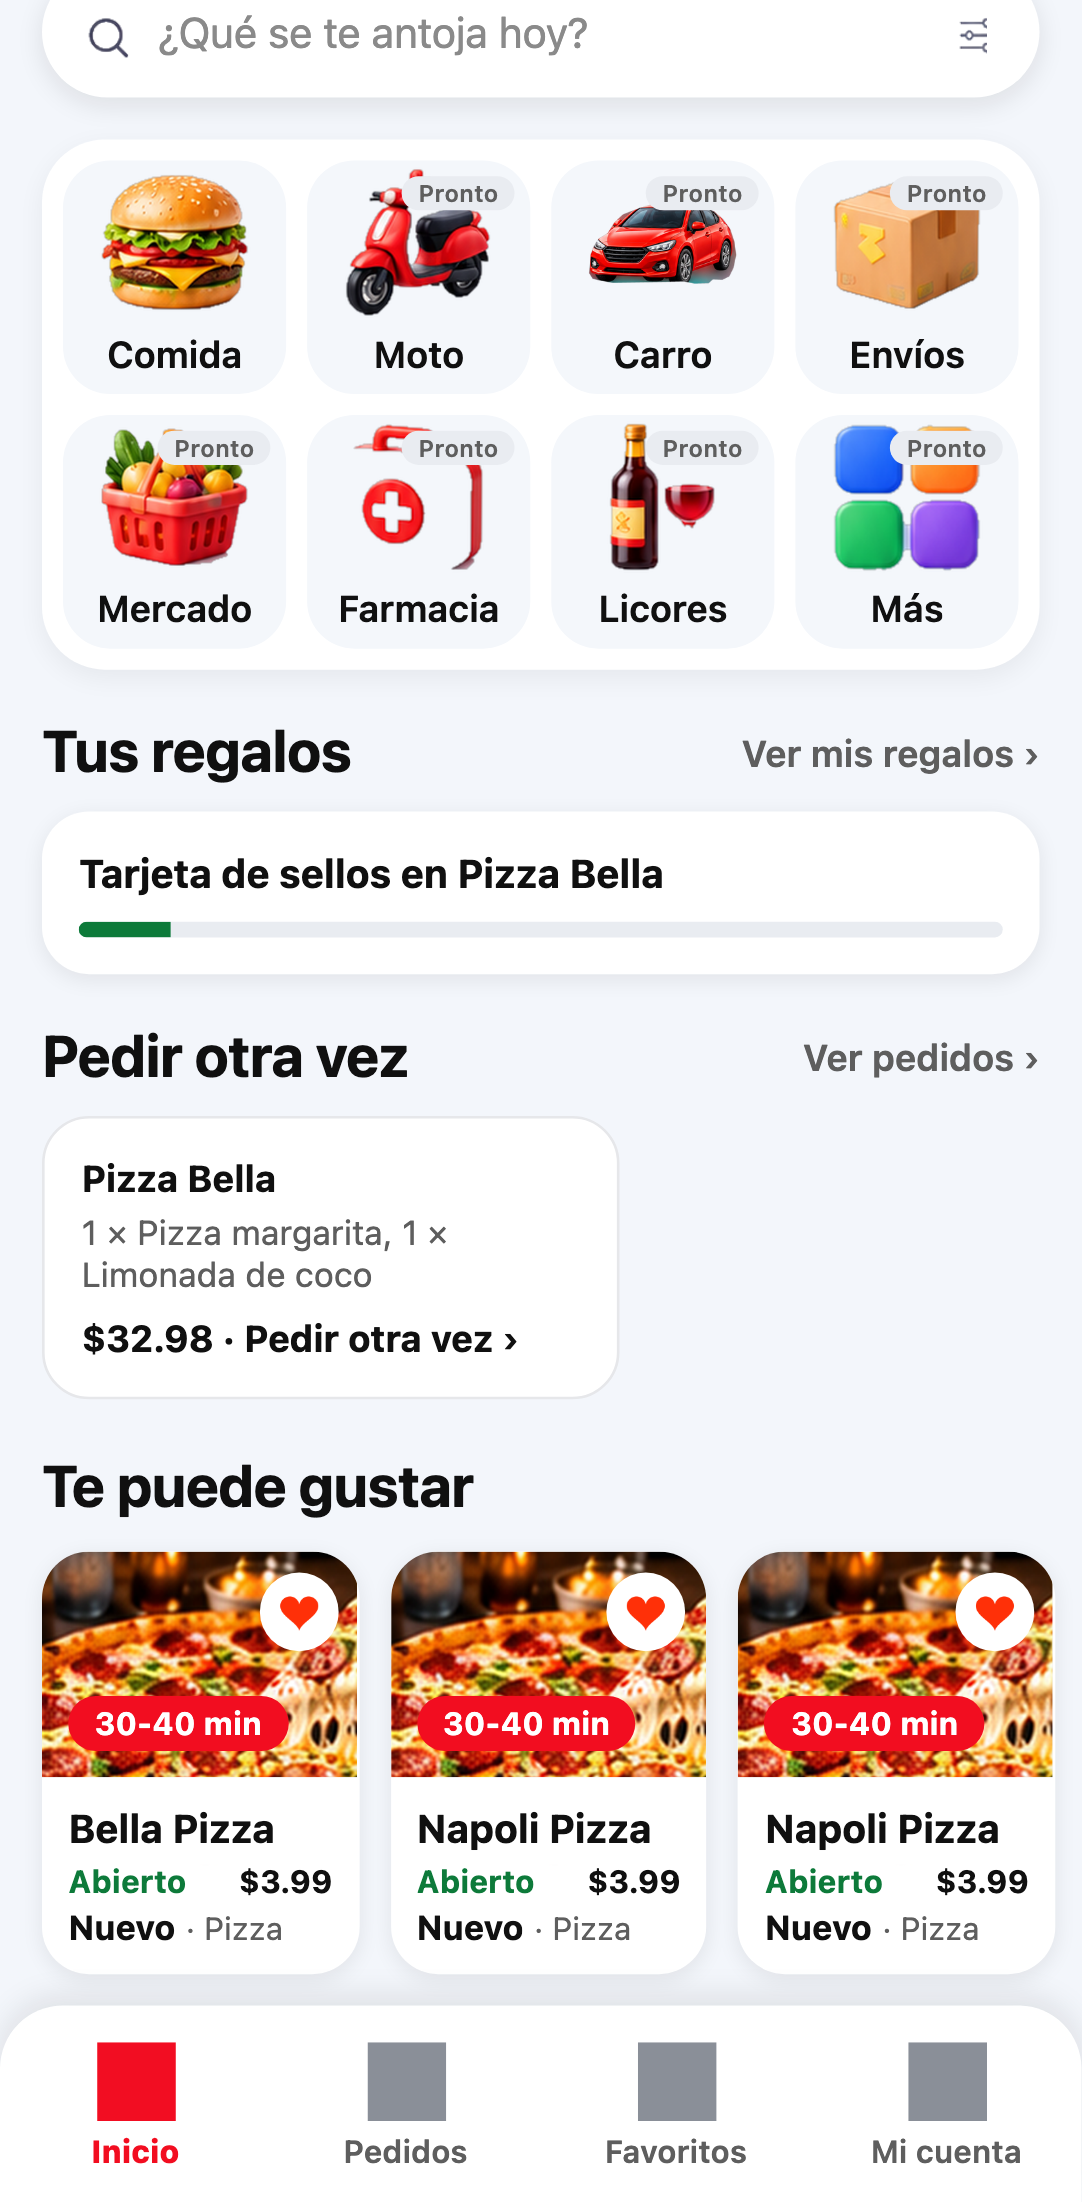
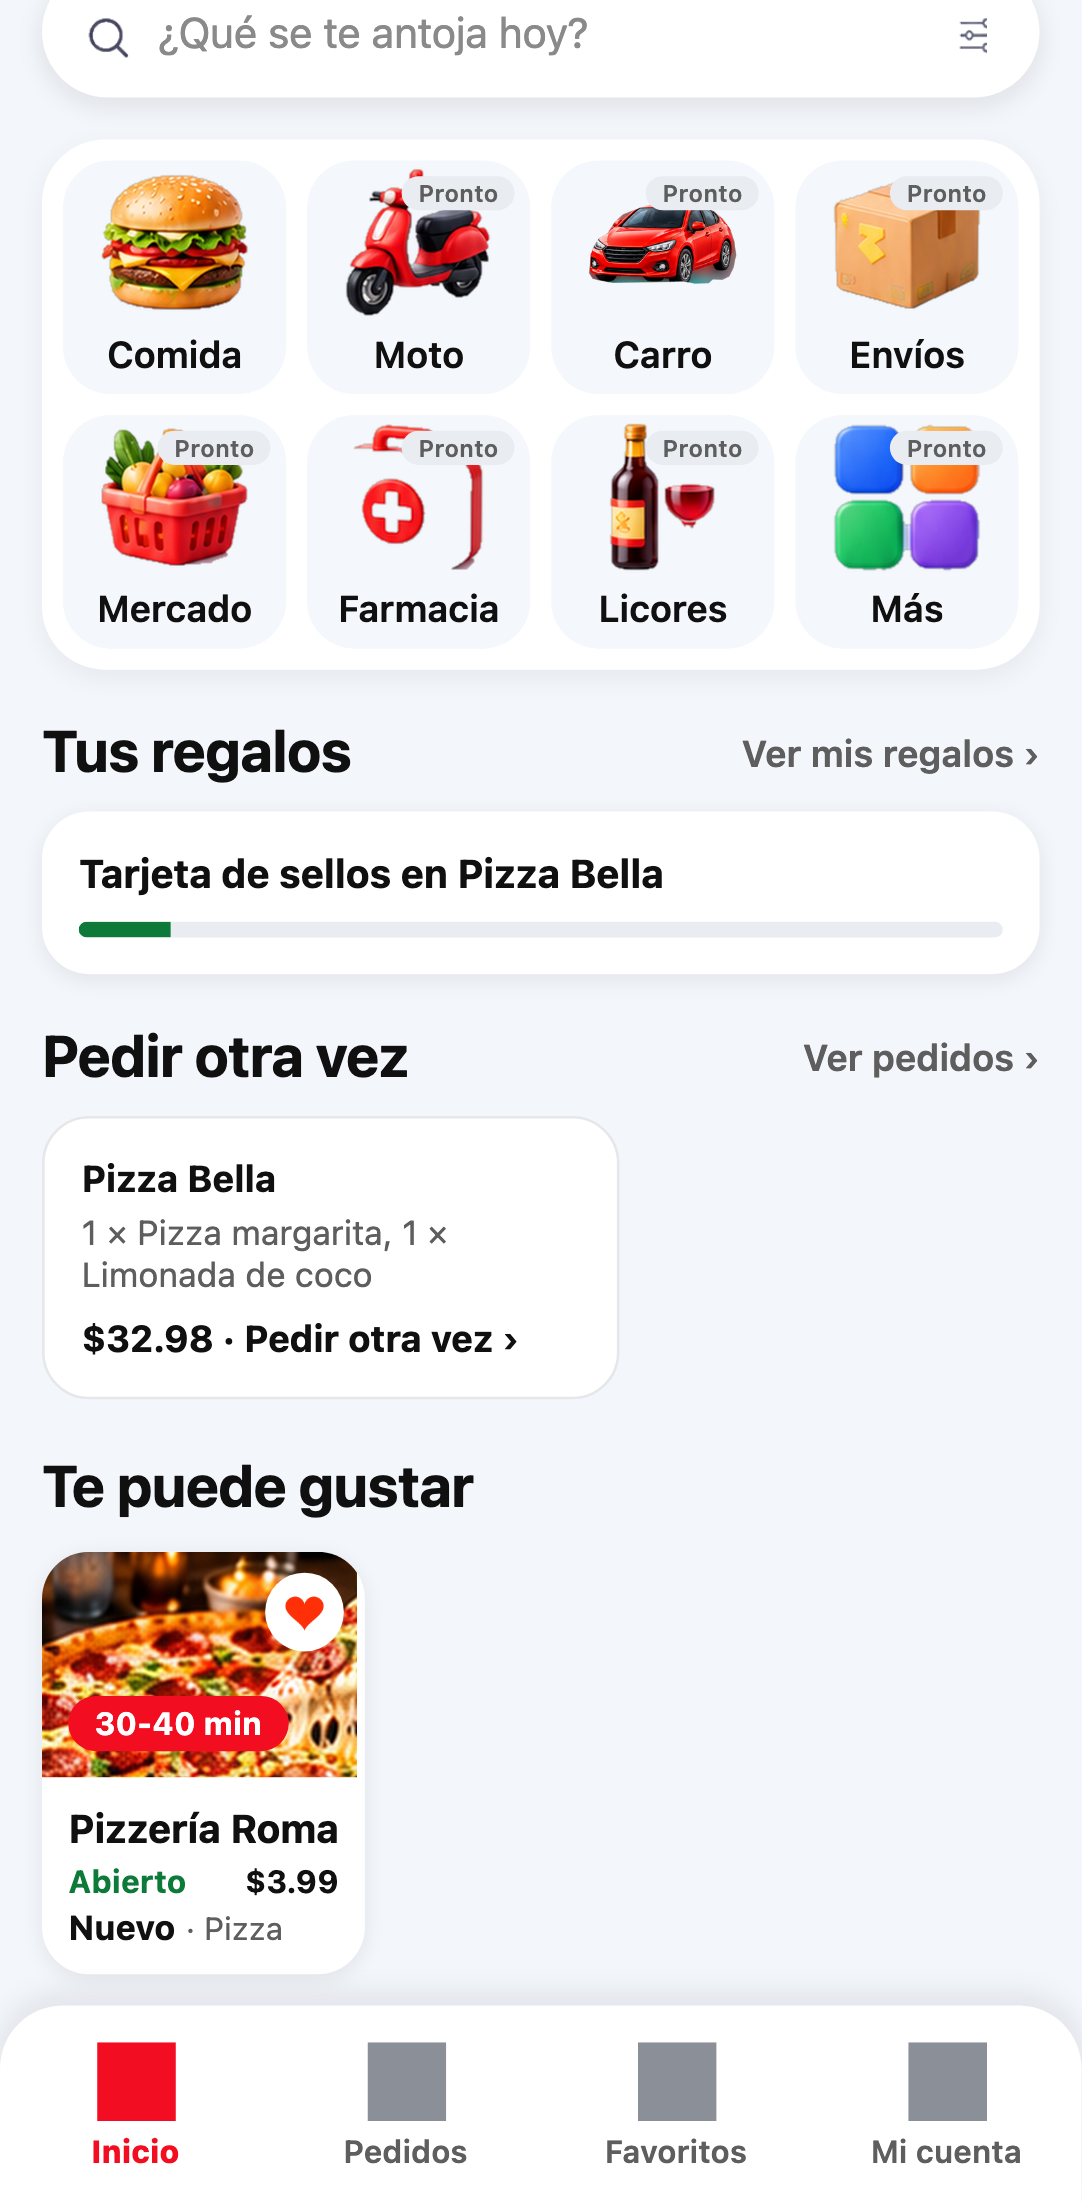
checkpoint automático: 2026-11-02 01:03

Changed region(s): [[0.244, 0.6794, 0.976, 0.8955], [0.0915, 0.8029, 0.305, 0.8647]]

diff --git a/apps/panel/src/sitio/docs/guias.ts b/apps/panel/src/sitio/docs/guias.ts
@@ -427,6 +427,13 @@ const es: SeccionDocs[] = [
           'Salen restaurantes del mismo tipo de comida que ya pediste (pizza, sushi, comida cubana…), abiertos ahora y del más cercano al más lejano. Los que ya probaste no se repiten aquí: están en «Pedir otra vez».',
           'Si todavía no pediste nada, la fila no aparece y ves la lista de siempre.',
         ],
+        capturas: [
+          {
+            src: '/docs/recorrido-cliente-te-puede-gustar-es.webp',
+            alt: 'El inicio de la app de Divoox con la fila «Te puede gustar» debajo de «Pedir otra vez»: una pizzería abierta y cercana que la persona todavía no probó.',
+            pie: 'Debajo de «Pedir otra vez» aparece «Te puede gustar», con locales nuevos del tipo de comida que ya pediste.',
+          },
+        ],
         preguntas: ['¿Por qué me recomiendan estos restaurantes?'],
         pasos: ['Abre el inicio.', 'Desliza la fila «Te puede gustar» y toca uno.'],
       },
@@ -2869,6 +2876,13 @@ const es: SeccionDocs[] = [
           'Es opcional. Solo lo ve nuestro equipo de soporte, para cuidar a los repartidores; el cliente no ve tu nota y nadie se bloquea por una calificación.',
           'Cada entrega se califica una sola vez, el mismo día.',
         ],
+        capturas: [
+          {
+            src: '/docs/recorrido-driver-calificar-cliente-es.webp',
+            alt: 'La pestaña Pedidos de Divoox Driver con «Califica a tus clientes de hoy»: el nombre de pila y el número del pedido, con las estrellas para calificar.',
+            pie: 'En «Pedidos» calificas, si quieres, a quien recibió tus entregas de hoy.',
+          },
+        ],
         preguntas: ['¿Puedo calificar a un cliente?', '¿El cliente ve mi calificación?'],
         pasos: [
           'Abre «Pedidos».',
@@ -4470,6 +4484,13 @@ const en: SeccionDocs[] = [
           'Once you’ve received an order, the home screen adds the “You might like” row, below “Order again”.',
           'It shows restaurants of the same kind of food you ordered (pizza, sushi, Cuban food…), open now, nearest first. The ones you already tried don’t repeat here: they’re in “Order again”.',
           'If you haven’t ordered yet, the row doesn’t appear and you see the usual list.',
+        ],
+        capturas: [
+          {
+            src: '/docs/recorrido-cliente-te-puede-gustar-en.webp',
+            alt: 'The Divoox app home screen with the “You might like” row under “Order again”: an open pizza place nearby the person hasn’t tried yet.',
+            pie: 'Under “Order again” you’ll see “You might like,” with new places serving the kind of food you already ordered.',
+          },
         ],
         preguntas: ['Why am I seeing these restaurants?'],
         pasos: ['Open the home screen.', 'Swipe the “You might like” row and tap one.'],
@@ -6882,6 +6903,13 @@ const en: SeccionDocs[] = [
           'Under “Orders” you see today’s deliveries you haven’t rated yet. Tap the stars and, if it’s 3 or fewer, pick what happened: didn’t come out, wrong address, rude or made you wait.',
           'It’s optional. Only our support team sees it, to look after drivers; the customer doesn’t see your rating and nobody is blocked over one rating.',
           'Each delivery can be rated once, on the same day.',
+        ],
+        capturas: [
+          {
+            src: '/docs/recorrido-driver-calificar-cliente-en.webp',
+            alt: 'The Orders tab in Divoox Driver with “Rate today’s customers”: the first name and the order number, with the stars to rate.',
+            pie: 'In “Orders” you can rate the people who received today’s deliveries, if you want.',
+          },
         ],
         preguntas: ['Can I rate a customer?', 'Does the customer see my rating?'],
         pasos: [

diff --git a/e2e/recorrido/recorrido.spec.ts b/e2e/recorrido/recorrido.spec.ts
@@ -1084,11 +1084,12 @@ for (const idioma of ['en', 'es'] as const) {
       // «Te puede gustar»: otra pizzería abierta al lado que el cliente todavía no probó (solo en
       // la base local del recorrido, con su propia dueña en cada idioma).
       const otra = `${rest.id}-otra`;
+      const otraNombre = idioma === 'en' ? 'Napoli Pizza' : 'Pizzería Roma';
       const duena = (
         (await (
           await request.post('/datos/cuentas/registro', {
             data: {
-              nombre: 'Napoli Pizza',
+              nombre: otraNombre,
               correo: correo('napoli'),
               clave: DATOS.clave,
               rol: 'cliente',
@@ -1098,7 +1099,7 @@ for (const idioma of ['en', 'es'] as const) {
       ).usuario.id;
       sql(
         `INSERT INTO restaurantes (id, dueno_id, nombre, categoria, telefono, direccion, lat, lng, estado, abierto, zona_id, geohash, senal_en)
-          SELECT '${otra}', '${duena}', 'Napoli Pizza', categoria, telefono, direccion, lat + 0.004, lng + 0.004, 'aprobado', 1, zona_id, geohash, datetime('now')
+          SELECT '${otra}', '${duena}', '${otraNombre}', categoria, telefono, direccion, lat + 0.004, lng + 0.004, 'aprobado', 1, zona_id, geohash, datetime('now')
           FROM restaurantes WHERE id = '${rest.id}'`,
       );
       sql(

diff --git a/apps/panel/src/sitio/docs/guiasPublicas.test.tsx b/apps/panel/src/sitio/docs/guiasPublicas.test.tsx
@@ -102,12 +102,9 @@ describe('Docs públicos', () => {
   });
 
   it('ninguna guía sin captura (regla de Richard, 1 nov 2026), en los dos idiomas', () => {
-    // Las únicas que esperan su foto: necesitan una entrega completa del recorrido (FILA, CAP-7b).
-    const ESPERAN = new Set(['ordering/you-might-like', 'trust/rate-customer']);
     for (const i of ['es', 'en'] as const)
       for (const s of DOCS[i])
         for (const g of s.guias)
-          if (!ESPERAN.has(`${s.id}/${g.id}`))
-            expect(g.capturas?.length ?? 0, `${i} ${s.id}/${g.id}`).toBeGreaterThan(0);
+          expect(g.capturas?.length ?? 0, `${i} ${s.id}/${g.id}`).toBeGreaterThan(0);
   });
 });

diff --git a/FILA.md b/FILA.md
@@ -247,6 +247,7 @@
 - 1 nov 2026, 22:30 (tarea programada): CAP-1 hecho. Tres capturas reales del mapa de Driver (zona, detalle al tocar y pago por hora pico) en la guía de zonas, en español e inglés, con su prueba. Guion capturas-zonas.mjs: crea pedidos en efectivo solo en pruebas, fotografía y los cancela. Todos los países.
 
 - 1 nov 2026, 23:50 (tarea programada): CAP-7 hecho. 21 guías de Docs que no tenían foto ahora la tienen, en español e inglés (cursos, comparación, pedido en grupo, seguimiento, pago, filtros de dieta, instrucciones, panel del restaurante, Driver y Flex en inglés). Prueba nueva: ninguna guía sin captura, salvo las dos de CAP-7b. Guion capturas-guias-faltantes.mjs, solo en pruebas; deja platos, efectivo y grupos como estaban. Todos los países.
+- 2 nov 2026, 01:05 (tarea programada): CAP-7b hecho. El recorrido local (con CAPTURAS=1) suma una segunda pizzería abierta y fotografía «Te puede gustar» y «Califica a tus clientes de hoy» después de la entrega; las dos guías ya tienen foto y la prueba de Docs no tiene excepciones: ninguna guía sin captura. Todos los países.
 
 ## Pedidos de Richard del 1 nov (noche) — en este orden
 
@@ -257,7 +258,7 @@
 - [x] HECHO 1 nov. (CAP-5) Capturas de «Tarjetas de regalo»: comprar, canjear, saldo y el interruptor del carrito. EE. UU.
 - [x] HECHO 1 nov. (CAP-6) Capturas y explicación paso a paso de «Mandar capturas a soporte». Todos los países.
 - [x] HECHO 1 nov (C-DOCS-CON-CAPTURAS). (CAP-7) Revisar TODAS las guías de Docs y agregar capturas a las que no tengan (regla nueva: ninguna guía sin captura). Todos los países.
-- [ ] (CAP-7b) Capturas de «Te puede gustar» (cliente con un pedido entregado en una pizzería y otra pizzería abierta) y de «Calificar al cliente» (Driver con una entrega de hoy): sumarlas al recorrido (npm run recorrido:capturas), que es el único que completa una entrega con fotos y GPS. Al tenerlas, sacarlas de ESPERAN en guiasPublicas.test.tsx. Todos los países.
+- [x] HECHO 2 nov (C-DOCS-CON-CAPTURAS). (CAP-7b) Capturas de «Te puede gustar» (cliente con un pedido entregado en una pizzería y otra pizzería abierta) y de «Calificar al cliente» (Driver con una entrega de hoy): sumarlas al recorrido (npm run recorrido:capturas), que es el único que completa una entrega con fotos y GPS. Al tenerlas, sacarlas de ESPERAN en guiasPublicas.test.tsx. Todos los países.
 - [x] HECHO 1 nov. (PRO-1) Página de progreso: sección «Qué hace cada app» (cliente, Driver, restaurante) y «Lo que solo existe en el panel web», pensada para explicar la startup a clientes, inversores y aceleradoras. Todos los países.
 - [x] HECHO 1 nov. (STA-1) Llamarla «la startup Divoox» en la web y en Docs donde corresponda (portada, Acerca de, franquicias, presentaciones). Todos los países.
 
